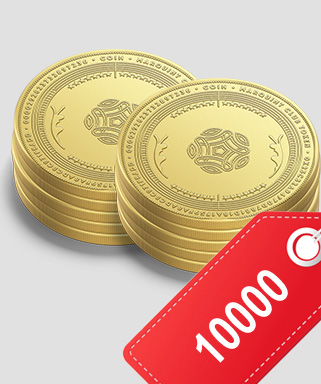
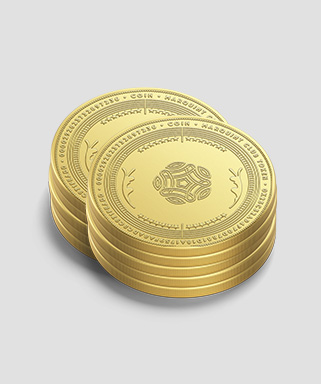
update

diff --git a/app/page.js b/app/page.js
@@ -3,12 +3,11 @@ const products = [
     id: 1,
     name: "Basic Tee 8-Pack",
     href: "#",
-    price: "$256",
+    price: "RM 50",
     description:
       "Get the full lineup of our Basic Tees. Have a fresh shirt all week, and an extra for laundry day.",
     options: "8 colors",
-    imageSrc:
-      "https://tailwindui.com/img/ecommerce-images/category-page-02-image-card-01.jpg",
+    imageSrc: "/img/selling/50.jpg",
     imageAlt:
       "Eight shirts arranged on table in black, olive, grey, blue, white, red, mustard, and green.",
   },
@@ -16,72 +15,66 @@ const products = [
     id: 2,
     name: "Basic Tee",
     href: "#",
-    price: "$32",
+    price: "RM 200",
     description:
       "Look like a visionary CEO and wear the same black t-shirt every day.",
     options: "Black",
-    imageSrc:
-      "https://tailwindui.com/img/ecommerce-images/category-page-02-image-card-02.jpg",
+    imageSrc: "/img/selling/200.jpg",
     imageAlt: "Front of plain black t-shirt.",
   },
   {
     id: 3,
     name: "Basic Tee",
     href: "#",
-    price: "$32",
+    price: "RM 500",
     description:
       "Look like a visionary CEO and wear the same black t-shirt every day.",
     options: "Black",
-    imageSrc:
-      "https://tailwindui.com/img/ecommerce-images/category-page-02-image-card-02.jpg",
+    imageSrc: "/img/selling/500.jpg",
     imageAlt: "Front of plain black t-shirt.",
   },
   {
     id: 4,
     name: "Basic Tee",
     href: "#",
-    price: "$32",
+    price: "RM 1,000",
     description:
       "Look like a visionary CEO and wear the same black t-shirt every day.",
     options: "Black",
-    imageSrc:
-      "https://tailwindui.com/img/ecommerce-images/category-page-02-image-card-02.jpg",
+    imageSrc: "/img/selling/1000.jpg",
     imageAlt: "Front of plain black t-shirt.",
   },
   {
     id: 5,
     name: "Basic Tee",
     href: "#",
-    price: "$32",
+    price: "RM 2,000",
     description:
       "Look like a visionary CEO and wear the same black t-shirt every day.",
     options: "Black",
-    imageSrc:
-      "https://tailwindui.com/img/ecommerce-images/category-page-02-image-card-02.jpg",
+    imageSrc: "/img/selling/2000.jpg",
     imageAlt: "Front of plain black t-shirt.",
   },
   {
     id: 6,
     name: "Basic Tee",
     href: "#",
-    price: "$32",
+    price: "RM 5,000",
     description:
       "Look like a visionary CEO and wear the same black t-shirt every day.",
     options: "Black",
-    imageSrc:
-      "https://tailwindui.com/img/ecommerce-images/category-page-02-image-card-02.jpg",
+    imageSrc: "/img/selling/5000.jpg",
     imageAlt: "Front of plain black t-shirt.",
   },
   {
     id: 7,
     name: "Basic Tee",
     href: "#",
-    price: "$32",
+    price: "RM 10,000",
     description:
       "Look like a visionary CEO and wear the same black t-shirt every day.",
     options: "Black",
-    imageSrc:
-      "https://tailwindui.com/img/ecommerce-images/category-page-02-image-card-02.jpg",
+    imageSrc: "/img/selling/10000.jpg",
     imageAlt: "Front of plain black t-shirt.",
   },
   // More products...
